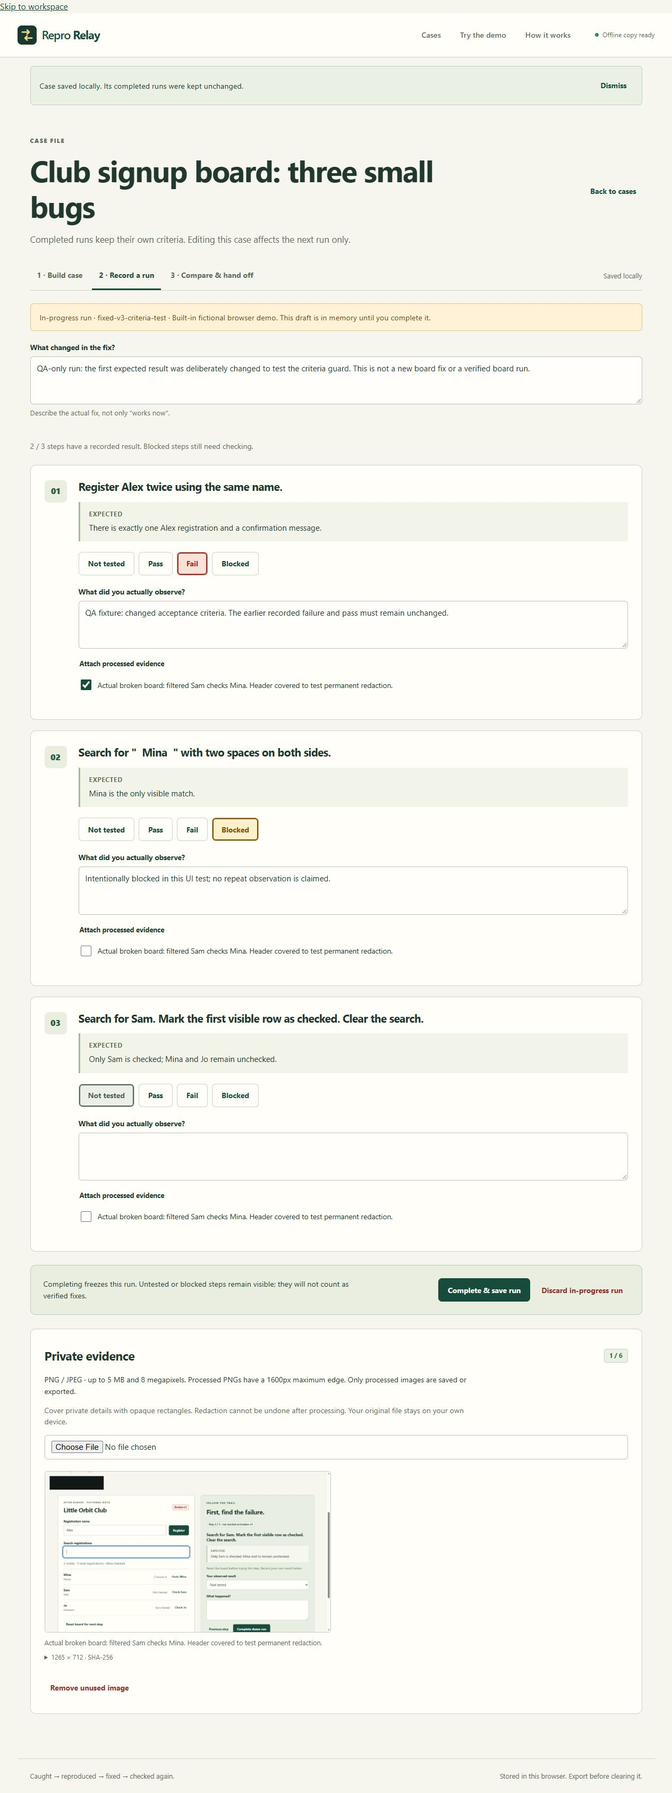
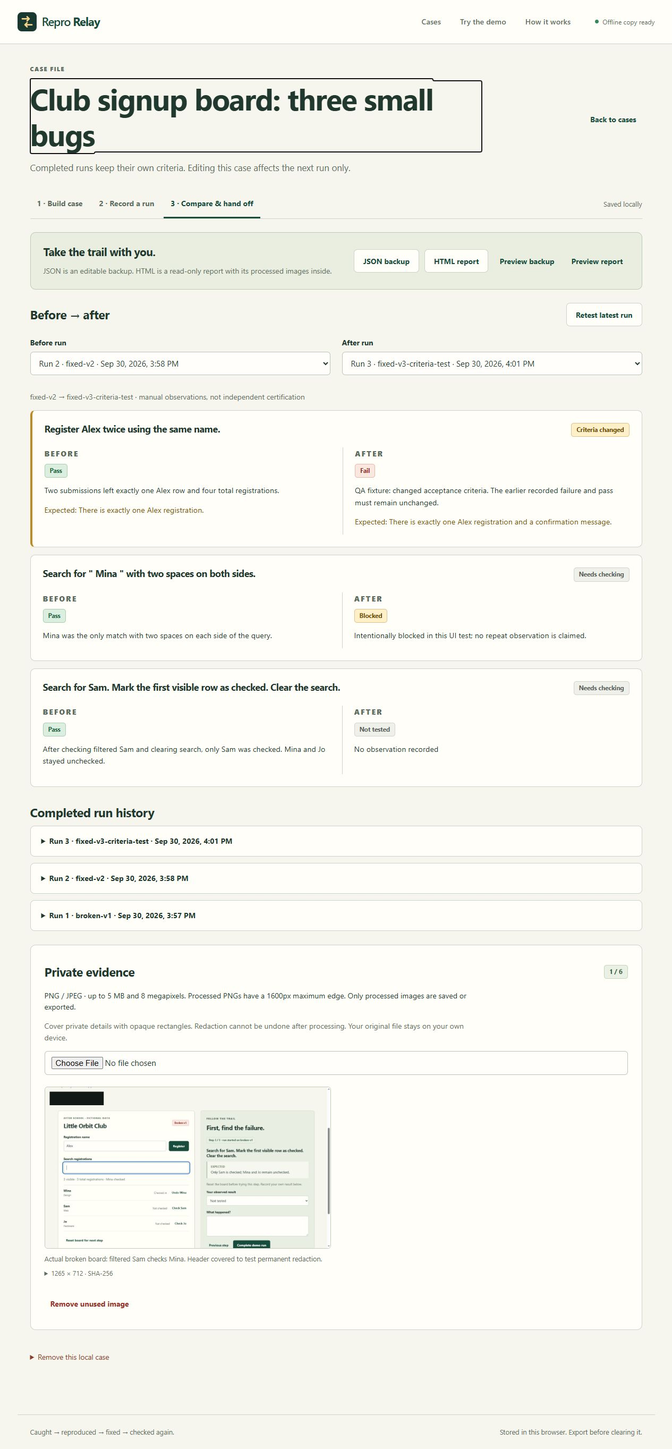
Finish portable build context, responsive home and project documentation
Codex-assisted implementation and documentation. Verified 14 core tests, type checking, offline build checks, captured v1 links after current v2 changes, and home layout at desktop and 360px. Record live Stardance tracker gate truthfully.

diff --git a/src/main.ts b/src/main.ts
@@ -91,7 +91,7 @@ function render() {
 function home(main:HTMLElement) {
   main.append(pageHeading('The inspection desk','A bug needs a trail.','Write the steps. Capture the failure. Come back after the fix and check the same thing again.',[button('New case',addCase,'primary')]));
   main.append(h('section',{class:'demo-callout'},h('div',{},h('p',{class:'eyebrow'},'ONE MINUTE · THREE REAL FAILURES'),h('h2',{},'The signup board that gets it wrong.'),h('p',{},'Catch a duplicate, a search miss and a row that checks the wrong person. Then try their fixes.')),button('Open the interactive demo →',() => go('/demo'),'primary')));
-  const importInput = h('input',{type:'file',accept:'.json,application/json','aria-label':'Choose a Repro Relay JSON backup',class:'file-input'});
+  const importInput = h('input',{type:'file',accept:'.json,application/json','aria-label':'Choose a Repro Relay JSON backup',class:'file-input',tabindex:-1});
   importInput.addEventListener('change',() => task(async() => {
     const file = importInput.files?.[0]; if (!file) return;
     try {
@@ -192,7 +192,7 @@ function comparePage(main:HTMLElement,c:Capsule) {
     main.append(h('div',{class:'form-grid compare-selects'},selectField('Before run',beforeId,entries,value => { beforeId=value; draw(); }),selectField('After run',afterId,entries,value => { afterId=value; draw(); })),comparison); draw();
   }
   main.append(h('h2',{},'Completed run history'));
-  [...c.runs].reverse().forEach(run => main.append(h('details',{class:'run-history'},h('summary',{},`Run ${c.runs.indexOf(run)+1} · ${run.spec.version || 'Version not recorded'} · ${time(run.completedAt)}`),h('p',{},'Environment: ',run.spec.environment || 'Not recorded'),h('p',{},'Before you begin: ',run.spec.preconditions || 'Not recorded'),run.fixNote ? h('p',{},'Fix note: ',run.fixNote) : null,...run.spec.steps.map(step => {
+  [...c.runs].reverse().forEach(run => main.append(h('details',{class:'run-history'},h('summary',{},`Run ${c.runs.indexOf(run)+1} · ${run.spec.version || 'Version not recorded'} · ${time(run.completedAt)}`),h('p',{},'Environment: ',run.spec.environment || 'Not recorded'),h('div',{class:'actions'},external('Demo at capture',run.spec.demoUrl),external('Source at capture',run.spec.sourceUrl)),h('p',{},'Before you begin: ',run.spec.preconditions || 'Not recorded'),run.fixNote ? h('p',{},'Fix note: ',run.fixNote) : null,...run.spec.steps.map(step => {
     const result = run.observations.find(row => row.stepId === step.id)!;
     return h('div',{class:'history-step'},h('h3',{},step.action),h('p',{},'Expected: ',step.expected),badge(outcomeLabel[result.outcome],result.outcome),h('p',{},result.actual || 'No observation recorded'),...result.evidenceIds.map(imageId => { const image = c.evidence.find(item => item.id === imageId)!; return evidenceFigure(image); }));
   }),button('Retest this run',() => task(async() => beginRun(c,run.id))))));

diff --git a/src/report.ts b/src/report.ts
@@ -9,7 +9,8 @@ function link(label: string, value: string): string { const url = safeUrl(value)
 function runHtml(run: Run, capsule: Capsule, index: number): string {
   const baseline = capsule.runs.find(item => item.id === run.baselineId);
   const comparison = baseline ? `<h3>Compared with run ${capsule.runs.indexOf(baseline)+1}</h3><ul>${compareRuns(baseline,run).map(row => `<li><strong>${e(changeLabel[row.change])}</strong> — ${e(row.action)}<br>Before: ${e(row.before ? outcomeLabel[row.before] : 'Missing')} · After: ${e(row.after ? outcomeLabel[row.after] : 'Missing')}</li>`).join('')}</ul>` : '';
-  return `<section><h2>Run ${index + 1} · ${e(run.spec.version || 'Version not recorded')}</h2><p>${e(run.completedAt)} · ${e(run.spec.environment || 'Environment not recorded')}</p><p><strong>Preconditions:</strong> ${e(run.spec.preconditions || 'None recorded')}</p>${run.fixNote ? `<p><strong>Fix note:</strong> ${e(run.fixNote)}</p>` : ''}<ol>${run.spec.steps.map(step => {
+  const snapshotLinks = [link('Demo at capture',run.spec.demoUrl),link('Source at capture',run.spec.sourceUrl)].filter(Boolean).join(' · ');
+  return `<section><h2>Run ${index + 1} · ${e(run.spec.version || 'Version not recorded')}</h2><p>${e(run.completedAt)} · ${e(run.spec.environment || 'Environment not recorded')}</p>${snapshotLinks ? `<p>${snapshotLinks}</p>` : ''}<p><strong>Preconditions:</strong> ${e(run.spec.preconditions || 'None recorded')}</p>${run.fixNote ? `<p><strong>Fix note:</strong> ${e(run.fixNote)}</p>` : ''}<ol>${run.spec.steps.map(step => {
     const result = run.observations.find(row => row.stepId === step.id)!;
     return `<li><h3>${e(step.action)}</h3><p><strong>Expected:</strong> ${e(step.expected)}</p><p><strong>${e(outcomeLabel[result.outcome])}:</strong> ${e(result.actual || 'No observation recorded')}</p>${result.evidenceIds.map(imageId => {
       const image = capsule.evidence.find(item => item.id === imageId)!;

diff --git a/src/style.css b/src/style.css
@@ -5,3 +5,5 @@
 @media(max-width:440px){.app-header{display:block}.app-header nav{margin:8px -8px -6px;justify-content:flex-start}.app-header nav a{padding:10px 12px}.brand{font-size:1.25rem}.demo-callout{padding:20px}.demo-callout .button{width:100%;font-size:.81rem}.case-card{padding:20px}.section-title{align-items:flex-start;gap:10px;flex-wrap:wrap}.before-after{grid-template-columns:1fr}.before-after>div+div{padding-left:0;border-left:0;border-top:1px solid var(--line);padding-top:16px}.review-step{display:block;padding:18px}.review-step .step-number{margin-bottom:14px}.signup-form{gap:8px}.signup-form .button{padding:10px 12px}.club-board,.lab-guide{padding:18px}.board-heading h2{font-size:1.4rem}.board-row{gap:6px;grid-template-columns:minmax(0,1fr) auto}.board-row>span{grid-column:1;grid-row:2;margin-top:-8px}.board-row .button{grid-column:2;grid-row:1/3}.about-grid{grid-template-columns:1fr}.about-grid .panel{padding:22px}.image-editor .actions .button{width:100%}.form-bottom .button{width:100%}.finish-bar .actions{width:100%}.finish-bar .button{width:100%}}
 #message .notice>.button{flex-shrink:0;overflow-wrap:normal}.export-preview{width:min(1000px,calc(100vw - 36px));max-height:90vh;padding:24px;border:1px solid #b9c9b1;border-radius:10px;background:var(--paper);color:var(--ink)}.export-preview::backdrop{background:#16342899}.export-preview .section-title{margin-top:0}.backup-json{width:100%;min-height:300px;margin:12px 0 22px;padding:15px;font:12px/1.5 ui-monospace,Consolas,monospace;border:1px solid var(--line);border-radius:7px;resize:vertical}.report-frame{display:block;width:100%;height:55vh;margin:12px 0 22px;border:1px solid var(--line);background:white}
 @media(prefers-reduced-motion:reduce){*{scroll-behavior:auto!important;transition:none!important}}
+.import-control{position:relative}
+.import-control .file-input{left:0;top:0;width:1px;height:1px;min-height:0;padding:0;border:0}

diff --git a/test/core.test.ts b/test/core.test.ts
@@ -94,7 +94,10 @@ test('image headers are size checked before decoding; fake formats, truncated JP
 });
 test('HTML reports escape script-like text, contain processed images and have no scripts or remote resources', async () => {
   const c = await withImage(); c.spec.title = '<script>alert("test")</script>'; c.spec.summary = '<img src=x onerror=alert(1)>'; c.spec.demoUrl = 'https://example.com/?q="evil"';
-  const draft = startRun(c); draft.observations[0].evidenceIds = ['shot']; draft.observations[0].actual = '</p><script>oops</script>'; const html = buildReport(finishRun(c,draft));
+  c.spec.sourceUrl = 'https://example.com/source-v1';
+  const draft = startRun(c); draft.observations[0].evidenceIds = ['shot']; draft.observations[0].actual = '</p><script>oops</script>';
+  const saved = finishRun(c,draft); saved.spec.sourceUrl = 'https://example.com/source-v2'; const html = buildReport(saved);
+  assert.ok(html.includes('href="https://example.com/source-v1"')); assert.ok(html.includes('href="https://example.com/source-v2"')); assert.equal(saved.runs[0].spec.sourceUrl,'https://example.com/source-v1');
   assert.ok(html.includes('&lt;script&gt;')); assert.ok(html.includes(tinyPng)); assert.ok(html.includes("default-src 'none'")); assert.ok(!/<script[\s>]/i.test(html)); assert.ok(!/<img[^>]+src="https?:/i.test(html)); assert.ok(!html.includes('onerror=alert(1)>')); assert.ok(html.includes('Not tested')); assert.ok(!html.includes('<script>oops'));
 });
 test('all three fictional bugs fail in broken mode and pass with the actual fixed implementation', () => {

diff --git a/README.md b/README.md
@@ -1,17 +1,82 @@
+![Repro Relay: caught, reproduced, fixed, checked again](docs/banner.svg)
+
 # Repro Relay
 
-A bug handoff that keeps the failure, fix and retest together. The first implementation is in progress.
+“It doesn't work” is a start. It rarely tells you which version someone tried, what they clicked, or what should have happened. Repro Relay keeps that missing context beside the fix and the next check.
 
-The aim is small: give someone enough context to try a bug, record what happened, and check the same steps again after a fix. Results are manual observations, not independent verification.
+**[Open the demo](https://aaravkatiyar55-gif.github.io/repro-relay/#/demo)** · [Build notes](docs/BUILD_NOTES.md) · [Checks and their limits](docs/QA.md) · [Ship status](docs/SHIP_STATUS.md)
 
-## Development
+This is a small, local bug handoff tool for builders and reviewers. Write a case, record what happened, then retest the same steps after a fix. Completed runs keep their own copy of the criteria. Changing the expected result does not quietly turn an old failure green.
 
-Node.js 24 or newer:
+## Try it in a minute
+
+1. Open **Try the demo**. The fictional Little Orbit Club board starts on Broken v1.
+2. Follow a check, try the actual board, and record what you observed. Results start as **Not tested**.
+3. Switch to Fixed v2 and repeat it. The board resets so the starting conditions match.
+4. Save the demo as a case to keep both runs and compare them.
+
+There are three working examples: registering Alex twice, searching for `  Mina  ` with surrounding spaces, and checking Sam while the list is filtered. The broken and fixed implementations are both included. No outside account or website is needed.
+
+![Actual fixed-board demo with recorded observations](docs/screenshots/fixed-demo.jpg)
+
+## Your own case
+
+- **Build case:** add version and project links, environment, starting conditions, ordered actions and expected results. Step IDs stay stable when you reorder them.
+- **Record a run:** mark each result Pass, Fail, Blocked or Not tested, write what happened and attach processed evidence. Finish the run to freeze that observation.
+- **Retest:** choose the earlier run, add a fix note and repeat the steps. The comparison shows resolved failures, regressions, unverified checks, changed criteria and added or removed steps.
+- **Hand off:** export an editable JSON backup or a self-contained, read-only HTML report. Both have previews. The report contains its processed images and needs no app login or internet connection.
+
+These are manual observations. The app does not inspect external sites, replay browser sessions or certify that a reported fix is correct. JSON is a portable editable record, not a signed audit trail.
+
+## Evidence and local data
+
+PNG and JPEG inputs are limited to 5 MiB and 8 megapixels before decoding. The editor reduces the longest edge to at most 1600 pixels. Cover private areas by dragging rectangles or entering their coordinates with the keyboard. Processing burns opaque pixels into a new PNG; only that processed image is saved or exported. Undo is available before processing, not afterwards. The original file remains on your device.
+
+The app checks processed image dimensions, decodability and SHA-256 on import. The digest detects mismatched bytes; it does not establish who captured an image or whether a scene is truthful. A valid import creates a separate case and leaves existing cases intact.
+
+Cases live in this browser's IndexedDB, with explicit save controls. There is no server, account, analytics, remote font or runtime package. Limits are 20 cases, 12 steps and 20 completed runs per case, 6 images per case, 2 MiB per processed image, 20 MiB per imported file and 40 MiB of serialized case data. These are application limits; a browser can run out of storage sooner. Export backups before clearing site data. Different browsers and deployment origins have separate storage.
+
+After the first successful online load, the production service worker caches the app shell for offline use. If local saving fails, the current in-memory case can still be exported. Unsaved drafts are not promised to survive closing the tab.
+
+![Actual comparison with changed criteria and incomplete checks](docs/screenshots/criteria-comparison.jpg)
+
+## Run locally
+
+Install Node.js **24 or newer**, then:
 
 ```sh
+git clone https://github.com/aaravkatiyar55-gif/repro-relay.git
+cd repro-relay
 npm ci --ignore-scripts
 npm run dev
-npm run verify
 ```
 
-Source is being written with substantial Codex assistance, including implementation, tests and documentation. This is not a human-only authorship claim. Tracker time, Stardance eligibility, approval and rewards are separate and are not guaranteed.
+Open the local URL printed by Vite. The offline cache runs in the production build, so use these commands to check that version:
+
+```sh
+npm run verify
+npm run preview
+```
+
+`verify` runs 14 core tests, strict TypeScript checking, the production build and checks on the generated offline shell. The cases include snapshot isolation, comparison edge cases, malformed imports, storage failures, safe report text and opaque redaction. Browser checks cover the real demo, reloads, image processing, imports, keyboard controls, mobile layout and offline previews. [QA.md](docs/QA.md) records what was tested and what still has a practical limit.
+
+## Where things live
+
+| File | Purpose |
+| --- | --- |
+| `src/model.ts`, `src/compare.ts` | Versioned cases, frozen runs and step matching |
+| `src/validation.ts`, `src/store.ts` | Strict backups and atomic IndexedDB saves |
+| `src/images.ts`, `src/report.ts` | Processed evidence and script-free reports |
+| `src/lab.ts` | The three deliberate broken/fixed board examples |
+| `src/main.ts`, `src/dom.ts`, `src/style.css` | The inspection desk and accessible controls |
+| `scripts/`, `.github/workflows/pages.yml` | Offline build checks and GitHub Pages deployment |
+
+The Pages workflow installs locked dependencies, runs verification, then deploys `dist`. Relative assets and hash routes let the same build run under a repository subpath.
+
+## How this was made
+
+The concept and scope were discussed with Aarav. **Codex implemented most of the application, tests, build setup and documentation, and operated the browser checks.** That is substantial AI assistance. The screenshots show the actual app with fictional test data; the SVG banner is an original graphic made for this repository. Bug-reporting tools already exist, and this is not a claim to the world's first invention.
+
+The useful part of this build is the trail: **caught → reproduced → fixed → checked again**. [Build notes](docs/BUILD_NOTES.md) explain the decisions and the bugs caught along the way. `.wakatime-project` sets the intended tracker label to `repro-relay`; it does not manufacture time. Editor-open time, accepted tracker hours, mission eligibility, reviewer approval and Stardust are separate. No reward or human-only authorship is claimed.
+
+MIT licensed. You can keep running, changing and hosting the source without a ChatGPT subscription.

diff --git a/docs/DEVLOG_DRAFT.md b/docs/DEVLOG_DRAFT.md
@@ -1,0 +1,34 @@
+# First-build devlog draft — not posted
+
+This is a factual draft prepared with Codex assistance. No duration should be added unless the correct linked tracker record supports it. The Stardance post control is currently disabled; this file is not proof of a published devlog.
+
+---
+
+Repro Relay now has a working first version. The starting problem was feedback like “it doesn't work” without a version, a sequence of clicks or a result to compare against. The tool keeps that first failure beside the fix note and the next check.
+
+A case has ordered steps and stable IDs. Every completed run keeps its own specification and observations. Reordering the current case still matches the same steps. Editing an expected result produces “Criteria changed”; blocked and skipped checks stay unverified. A newer green label cannot replace yesterday's recorded failure.
+
+The small demo is a fictional club signup board. Broken v1 really allows two Alex registrations, misses `  Mina  ` with surrounding spaces, and checks Mina when the filtered row is Sam. Fixed v2 rejects repeated names, trims searches and uses row IDs. All three failures and matching fixes were tried in the browser, including the public deployment. Results start as Not tested; somebody still has to try the board and record what happened.
+
+Screenshots can be processed before they become evidence. Drag opaque rectangles or enter their coordinates with the keyboard. Only the resulting PNG is saved. The redaction check decoded an actual processed screenshot and confirmed that all 14,400 covered pixels were opaque. SHA-256 checks image bytes on import, but it is not proof of authorship or a truthful scene.
+
+The handoff is an editable JSON backup or a script-free HTML report with processed images inside it. Valid imports create separate cases. Invalid JSON and a tampered image digest left existing cases intact. The report preview and cached app were tried offline. The browser automation tool blocks opening local `file:` URLs, so the downloaded report was not opened from disk through that tool; the exact complete HTML, embedded image and offline preview were checked instead.
+
+The final UI pass fixed a skip-link routing problem, a squeezed mobile toast, replacement of an unfinished retest and a hidden file input that caused horizontal overflow. Run history and reports keep the original build links too. The 14 core tests, strict TypeScript check and offline production build checks pass. The README includes setup instructions, real decisions and the practical testing limits.
+
+Aarav chose the direction and scope. Codex implemented most of the application, tests, build setup and documentation, and operated the recorded browser checks. This is substantially AI-assisted work. No human-only authorship, eligible duration, reviewer approval or Stardust reward is claimed.
+
+[Try Repro Relay](https://aaravkatiyar55-gif.github.io/repro-relay/#/demo) · [Source and walkthrough](https://github.com/aaravkatiyar55-gif/repro-relay)
+
+## Actual screenshots available for the eventual post
+
+- [Public inspection desk](screenshots/public-home.jpg)
+- [Broken board](screenshots/broken-board.jpg)
+- [Fixed demo](screenshots/fixed-demo.jpg)
+- [Matching failure and retest](screenshots/retest-comparison.jpg)
+- [Changed criteria and incomplete retest](screenshots/criteria-comparison.jpg)
+- [Redaction editor](screenshots/redaction-preview.jpg)
+- [Offline report preview](screenshots/offline-report.jpg)
+- [360px comparison](screenshots/mobile-comparison.jpg)
+
+The comparison with changed criteria is a clearly labelled QA fixture, not another released board version. All data shown is fictional.

diff --git a/docs/SHIP_STATUS.md b/docs/SHIP_STATUS.md
@@ -1,0 +1,23 @@
+# Ship status
+
+Updated 30 September 2026. This record separates the working product from tracker eligibility and Stardance approval.
+
+## Product
+
+- Local production build, strict TypeScript, 14 core tests and offline build checks pass.
+- The three deliberate failures and corresponding fixes were checked in the browser.
+- Snapshot comparison, private evidence processing, valid/invalid imports, keyboard flow and offline preview checks are recorded in [QA.md](QA.md).
+- Source, setup instructions, assistance disclosure, original banner and actual app screenshots are included.
+- [Public source](https://github.com/aaravkatiyar55-gif/repro-relay) and [live app](https://aaravkatiyar55-gif.github.io/repro-relay/) are available. The initial [Pages verification and deployment](https://github.com/aaravkatiyar55-gif/repro-relay/actions/runs/36704846474) succeeded.
+- On the fresh public origin, all three broken failures reproduced and all three corresponding fixed behaviors passed. The deployed shell reloaded offline, networking was restored, and no warning/error console entries were observed in that session.
+- A final home-page overflow fix and captured-link display are locally verified; final deployment verification is recorded below after the updated build goes live.
+
+## Tracker and submission
+
+The intended label is `repro-relay`. Opening VS Code and setting `.wakatime-project` do not prove eligible time. On 30 September, the live Stardance Hackatime picker did not list `repro-relay`. Other project labels were not linked or reassigned. No eligible Repro Relay hours are verified. No synthetic heartbeats, filler edits or hours from another project are used.
+
+[Stardance project 66998](https://stardance.hackclub.com/projects/66998) has the accurate description, working demo/source links, substantial AI declaration and an actual app screenshot as its banner. It shows **0 devlogs / 0 total hours** and disabled devlog/ship controls. Its onboarding explicitly requires a linked tracker project and at least 15 minutes before the first devlog. The official [tracker guide](https://stardance.hackclub.com/resources/hackatime) says zero-time projects are hidden, and time must be captured through devlogs. A factual [devlog draft](DEVLOG_DRAFT.md) and screenshots are ready; nothing was posted by bypassing that gate.
+
+The live [Frictionless mission](https://stardance.hackclub.com/missions/frictionless) requires a usable project, a clear problem explanation, **minimum 3 hours spent** and **3 major QoL improvements**. Repro Relay covers clear reproduction, connected retest evidence and portable handoff. The account's mission page currently points to Hand-in Kit in review; Repro Relay is a separate software record and is not claimed as enrolled or mission-approved. The existing mission project was preserved.
+
+Substantial Codex assistance remains disclosed. A false human-authorship acknowledgement must not be submitted. The working product is available; **Stardance shipping remains blocked by unverified eligible tracker time**, rather than being reported as completed. Stardance acceptance and a 500 Stardust target are not guaranteed.

diff --git a/docs/QA.md b/docs/QA.md
@@ -18,7 +18,7 @@ Run `npm run verify` on Node 24. The native Node suite covers:
 10. A simulated storage-open failure with a recovery message.
 11. Opaque pixel redaction, clipping and unchanged neighbouring pixels.
 12. PNG/JPEG signature, truncation and pre-decode size limits.
-13. Escaping script-like report text and excluding scripts/remote assets.
+13. Escaping script-like report text, excluding scripts/remote assets and keeping captured build links after current links change.
 14. The three actual broken/fixed demo implementations.
 
 The production build also checks local asset references, script CSP, service-worker syntax, existing precache assets and request scope. `npm ci --ignore-scripts` installs only locked development dependencies. No runtime packages are installed.
@@ -46,6 +46,8 @@ The production build also checks local asset references, script CSP, service-wor
 | Keyboard flow | Enter created/saved case, Space selected result, Enter completed run |
 | Skip link | Enter focused `main` without changing the case route |
 | Mobile comparison | 360px viewport, no horizontal overflow or out-of-bounds controls |
+| Home-page overflow fix | Locally: 1280px viewport / 1265px page and 360px viewport / 345px page; hidden input is 1px |
+| Captured build links | Labelled synthetic fixture: run history and report retained v1 links while the current case used v2; all fixture outcomes were Not tested |
 | Offline app | Cached production shell reloaded with network emulation set offline |
 | Offline report preview | Script-free report and embedded image displayed while offline |
 | JSON / HTML downloads | Browser download events reported completion |
@@ -58,4 +60,8 @@ The browser tool blocks `file:` navigation. The saved report was not opened from
 
 Storage-open and case-limit failures are automated tests. A real browser disk-quota exhaustion was not induced. No external websites were scanned or replayed. Mobile validation is a 360px Chromium viewport check, not a claim of testing every phone or assistive technology.
 
-Fresh public deployment verification and tracker/mission status are recorded in `SHIP_STATUS.md` after they are checked.
+## Fresh public origin
+
+The GitHub Pages deployment was opened with no Repro Relay cases already saved on that origin. Broken v1 reproduced duplicate Alex rows, zero results for the spaced Mina query and Mina checked instead of filtered Sam. Fixed v2 produced one Alex row, Mina as the single match and only Sam checked. The app shell reloaded while that tab's network was emulated offline; networking was restored afterwards. No warning/error console entries were observed in that session. The public home screenshot was also used as the Stardance banner.
+
+The final overflow correction and snapshot-link display receive a focused public check after the updated deployment. Tracker and mission status are recorded in [SHIP_STATUS.md](SHIP_STATUS.md).

diff --git a/docs/BUILD_NOTES.md b/docs/BUILD_NOTES.md
@@ -7,7 +7,7 @@ This is a new implementation of a familiar problem. Bug-reporting products alrea
 ## Decisions made during this build
 
 - **Stable step IDs rather than array positions.** A reordered case still matches the original steps. A removed step does not vanish from the comparison.
-- **Copy the specification into every completed run.** Editing the expected result later must not edit yesterday's failed test. Changed actions, expected results or starting conditions get a “Criteria changed” label.
+- **Copy the specification into every completed run.** Editing the expected result later must not edit yesterday's failed test. Changed actions, expected results or starting conditions get a “Criteria changed” label. Run history and HTML reports also use the captured build links, so changing today's demo URL does not replace the earlier one.
 - **Keep outcomes honest.** Pass, fail, blocked and not tested are separate. A blocked or skipped retest cannot resolve an earlier failure. These are manual observations, not independent certification.
 - **Burn redaction into pixels.** A covering rectangle in an HTML overlay could reveal the underlying image. Here the processed PNG contains opaque replacement pixels. The original source remains only in the unsaved editor until it is committed or cancelled.
 - **Import as a separate case.** A JSON backup must pass schema, image dimension, SHA-256 and browser decoding checks before one atomic save. It never overwrites an existing case by default.
@@ -21,6 +21,7 @@ This is a new implementation of a familiar problem. Bug-reporting products alrea
 3. The skip link initially used a class that did not match the CSS. Its hash also collided with application routing. The corrected link focuses the main workspace without changing the case route; it was checked with Enter.
 4. A mobile success toast squeezed “Dismiss” into a narrow column. The button now keeps its width.
 5. Starting another retest could replace an unfinished run. The app now returns to that existing draft and explains that it needs to be completed or discarded first.
+6. Fresh production inspection caught horizontal overflow on the home page: a general input rule overrode the hidden import input's width. A more specific rule now keeps that input inside its control, and it is excluded from the tab order. Desktop and 360px home pages are checked after the fix.
 
 ## The fictional demonstration
 
